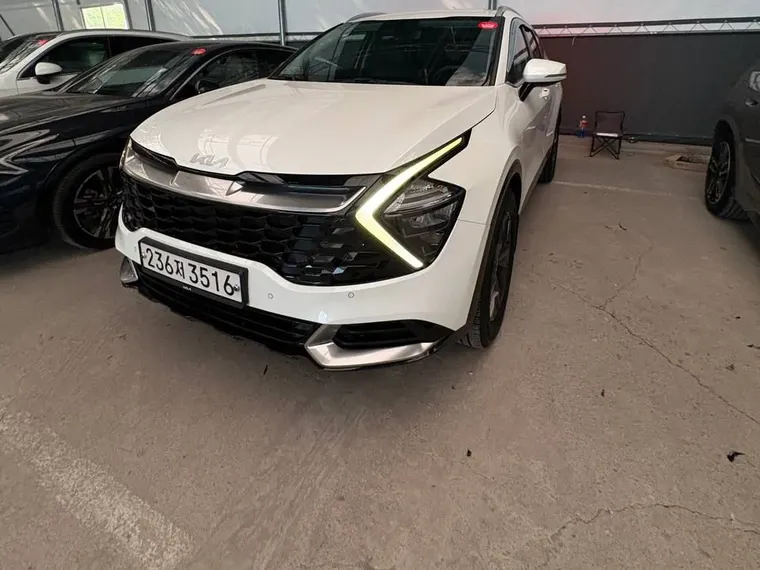
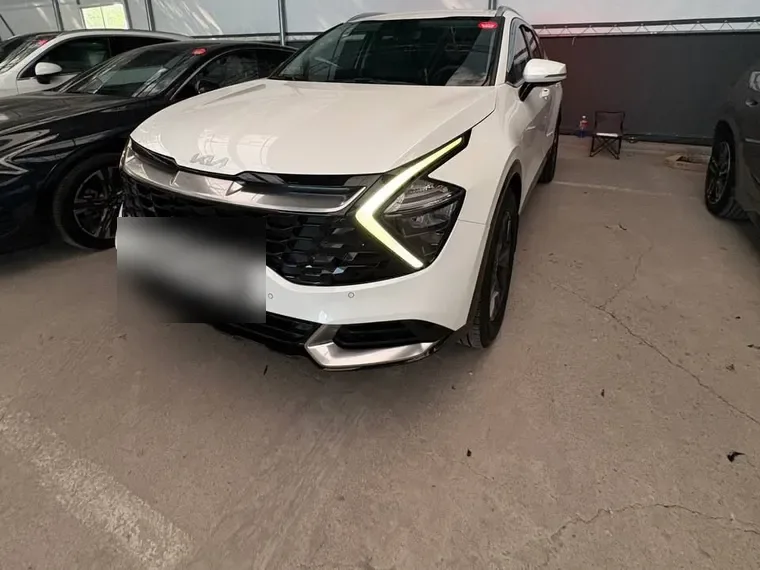
Trust and polish: honest placeholders for contacts and review captions, plates blurred, footer link fixed, owner statement, dialogs and mobile menu animate, hover only on mouse, stronger press

Changed region(s): [[0.1513, 0.3579, 0.3632, 0.5667]]

diff --git a/app/globals.css b/app/globals.css
@@ -253,7 +253,11 @@ html.lenis body {
     color 160ms var(--ease-out);
 }
 .btn:active {
-  transform: translateY(1px);
+  transform: translateY(1px) scale(0.98);
+}
+.pill:active,
+[role="radio"]:active {
+  transform: scale(0.97);
 }
 .btn-sm {
   height: 44px;
@@ -268,24 +272,30 @@ html.lenis body {
     inset 0 -2px 0 rgba(0, 0, 0, 0.22),
     0 12px 28px -14px color-mix(in srgb, var(--accent) 80%, transparent);
 }
-.btn-primary:hover {
-  background: color-mix(in srgb, var(--accent-fill) 86%, white);
+@media (hover: hover) and (pointer: fine) {
+  .btn-primary:hover {
+    background: color-mix(in srgb, var(--accent-fill) 86%, white);
+  }
 }
 .btn-ghost {
   background: transparent;
   color: var(--ink);
   border-color: var(--line-strong);
 }
-.btn-ghost:hover {
-  border-color: var(--ink);
-  background: var(--accent-soft);
+@media (hover: hover) and (pointer: fine) {
+  .btn-ghost:hover {
+    border-color: var(--ink);
+    background: var(--accent-soft);
+  }
 }
 .btn-paper {
   background: var(--paper);
   color: var(--paper-ink);
 }
-.btn-paper:hover {
-  background: color-mix(in srgb, var(--paper) 88%, white);
+@media (hover: hover) and (pointer: fine) {
+  .btn-paper:hover {
+    background: color-mix(in srgb, var(--paper) 88%, white);
+  }
 }
 
 /* ---------- Fields ---------- */
@@ -304,8 +314,10 @@ html.lenis body {
     box-shadow 200ms var(--ease-out),
     background-color 160ms var(--ease-out);
 }
-.field:hover {
-  border-color: var(--ink-3);
+@media (hover: hover) and (pointer: fine) {
+  .field:hover {
+    border-color: var(--ink-3);
+  }
 }
 .field:focus-within {
   border-color: var(--accent);
@@ -372,11 +384,14 @@ html.lenis body {
   transition:
     background-color 160ms var(--ease-out),
     color 160ms var(--ease-out),
-    border-color 160ms var(--ease-out);
+    border-color 160ms var(--ease-out),
+    transform 160ms var(--ease-out);
 }
-.pill:hover {
-  color: var(--ink);
-  border-color: var(--ink-3);
+@media (hover: hover) and (pointer: fine) {
+  .pill:hover {
+    color: var(--ink);
+    border-color: var(--ink-3);
+  }
 }
 .pill[aria-checked="true"],
 .pill[aria-pressed="true"] {
@@ -423,6 +438,41 @@ html.lenis body {
 .select-item[data-disabled] {
   opacity: 0.4;
   cursor: not-allowed;
+}
+/* Dialogs (car details, photo viewer): open in the site's rhythm, close quickly */
+.dlg-fade[data-state="open"] {
+  animation: dlg-fade-in 400ms var(--ease-expo) both;
+}
+.dlg-fade[data-state="closed"] {
+  animation: dlg-fade-out 200ms ease-out both;
+}
+.dlg-pop[data-state="open"] {
+  animation: dlg-pop-in 700ms var(--ease-expo) both;
+}
+.dlg-pop[data-state="closed"] {
+  animation: dlg-pop-out 200ms ease-out both;
+}
+@keyframes dlg-fade-in {
+  from {
+    opacity: 0;
+  }
+}
+@keyframes dlg-fade-out {
+  to {
+    opacity: 0;
+  }
+}
+@keyframes dlg-pop-in {
+  from {
+    opacity: 0;
+    scale: 0.96;
+  }
+}
+@keyframes dlg-pop-out {
+  to {
+    opacity: 0;
+    scale: 0.98;
+  }
 }
 @keyframes pop {
   from {
@@ -475,8 +525,10 @@ html.lenis body {
   z-index: 1;
   transition: transform 700ms var(--ease-out);
 }
-.card-hover:hover .stage img.car {
-  transform: translateX(-50%) scale(1.05);
+@media (hover: hover) and (pointer: fine) {
+  .card-hover:hover .stage img.car {
+    transform: translateX(-50%) scale(1.05);
+  }
 }
 
 }
@@ -857,8 +909,10 @@ html[data-intro="play"] :is(.header-in, .split-panel) {
   cursor: pointer;
   transition: background 0.2s;
 }
-.vp-btn:hover {
-  background: rgba(255, 255, 255, 0.18);
+@media (hover: hover) and (pointer: fine) {
+  .vp-btn:hover {
+    background: rgba(255, 255, 255, 0.18);
+  }
 }
 @keyframes eq {
   to {

diff --git a/components/Contact.tsx b/components/Contact.tsx
@@ -4,6 +4,7 @@ import { ArrowUpRight, CheckCircle2, Loader2, TriangleAlert } from "lucide-react
 import { AnimatePresence, motion, useReducedMotion, useScroll, useSpring, useTransform } from "motion/react";
 import { useEffect, useRef, useState } from "react";
 import { QUIZ } from "@/lib/data";
+import { DUR, EASE } from "@/lib/motion";
 import { channels, SITE } from "@/lib/site";
 import { NjIcon, type IconName } from "./NjIcon";
 import { Select } from "./Select";
@@ -173,8 +174,8 @@ ${text}` : text }));
                   <motion.div
                     key="ok"
                     initial={{ opacity: 0, y: 12 }}
-                    animate={{ opacity: 1, y: 0 }}
-                    exit={{ opacity: 0 }}
+                    animate={{ opacity: 1, y: 0, transition: { duration: DUR, ease: EASE } }}
+                    exit={{ opacity: 0, transition: { duration: 0.2 } }}
                     className="grid place-items-center py-14 text-center"
                     role="status"
                   >
@@ -195,7 +196,7 @@ ${text}` : text }));
                     </button>
                   </motion.div>
                 ) : (
-                  <motion.form key="form" onSubmit={submit} noValidate exit={{ opacity: 0 }} className="grid gap-5">
+                  <motion.form key="form" onSubmit={submit} noValidate initial={{ opacity: 0 }} animate={{ opacity: 1, transition: { duration: DUR, ease: EASE } }} exit={{ opacity: 0, transition: { duration: 0.2 } }} className="grid gap-5">
                     <div className="grid gap-5 sm:grid-cols-2">
                       <div>
                         <label htmlFor="f-name" className="label">
@@ -249,7 +250,7 @@ ${text}` : text }));
                               role="radio"
                               aria-checked={f[q.key] === o}
                               onClick={() => set(q.key, f[q.key] === o ? "" : o)}
-                              className="cursor-pointer rounded-full border border-line-strong px-3.5 py-1.5 text-[16px] font-bold text-ink-2 transition-colors hover:border-accent hover:text-ink aria-checked:border-accent aria-checked:bg-accent-soft aria-checked:text-ink"
+                              className="cursor-pointer rounded-full border border-line-strong px-3.5 py-1.5 text-[16px] font-bold text-ink-2 transition-[color,background-color,border-color,transform] duration-150 hover:border-accent hover:text-ink aria-checked:border-accent aria-checked:bg-accent-soft aria-checked:text-ink"
                             >
                               {o}
                             </button>

diff --git a/components/Header.tsx b/components/Header.tsx
@@ -1,7 +1,8 @@
 "use client";
 
 import { ArrowUpRight, Menu, X } from "lucide-react";
-import { motion, useScroll, useSpring } from "motion/react";
+import { AnimatePresence, motion, useScroll, useSpring } from "motion/react";
+import { DUR, EASE } from "@/lib/motion";
 import { useEffect, useState } from "react";
 import { ThemeToggle } from "./ThemeToggle";
 
@@ -29,7 +30,7 @@ function NavList({ items, prefix, active }: { items: typeof NAV; prefix: string;
               <motion.span
                 layoutId="nav-active"
                 className="absolute inset-x-3 -bottom-[1px] h-[2px] bg-accent xl:inset-x-4"
-                transition={{ type: "spring", stiffness: 420, damping: 36 }}
+                transition={{ duration: 0.45, ease: EASE }}
               />
             )}
           </a>
@@ -107,11 +108,17 @@ export function Header({ prefix = "" }: { prefix?: string }) {
         />
       </nav>
 
+      <AnimatePresence>
       {open && (
-        <div className="plate mx-3 mt-2 p-3 lg:hidden">
+        <motion.div
+          initial={{ opacity: 0, y: -10 }}
+          animate={{ opacity: 1, y: 0, transition: { duration: DUR, ease: EASE } }}
+          exit={{ opacity: 0, y: -6, transition: { duration: 0.2, ease: "easeOut" } }}
+          className="plate mx-3 mt-2 p-3 lg:hidden"
+        >
           <ul className="flex flex-col">
-            {NAV.map((n) => (
-              <li key={n.id}>
+            {NAV.map((n, i) => (
+              <motion.li key={n.id} initial={{ opacity: 0, y: 8 }} animate={{ opacity: 1, y: 0 }} transition={{ duration: DUR, ease: EASE, delay: 0.05 + i * 0.04 }}>
                 <a
                   href={`${prefix}#${n.id}`}
                   onClick={() => setOpen(false)}
@@ -120,7 +127,7 @@ export function Header({ prefix = "" }: { prefix?: string }) {
                   {n.label}
                   <ArrowUpRight className="size-4 text-ink-3" strokeWidth={1.75} />
                 </a>
-              </li>
+              </motion.li>
             ))}
           </ul>
           <div className="mt-2 flex items-center justify-end gap-3 p-3 pt-4">
@@ -128,8 +135,9 @@ export function Header({ prefix = "" }: { prefix?: string }) {
               Рассчитать
             </a>
           </div>
-        </div>
+        </motion.div>
       )}
+      </AnimatePresence>
     </header>
   );
 }

diff --git a/components/Reviews.tsx b/components/Reviews.tsx
@@ -9,9 +9,9 @@ import { Reveal, SectionHead } from "./ui";
 // Videos compressed from the owner's originals (public/reviews). The first one is Andrey himself, it opens the row.
 const ITEMS = [
   { id: "andrey", title: "Андрей, NJ Motors", sub: "Начинает Андрей", wide: false, dur: 98 },
-  { id: "review-1", title: "Отзыв клиента", sub: "Видео от клиента", wide: false, dur: 82 },
-  { id: "review-2", title: "Отзыв клиента", sub: "Видео от клиента", wide: false, dur: 102 },
-  { id: "review-3", title: "Отзыв клиента", sub: "Видео от клиента", wide: true, dur: 30 },
+  { id: "review-1", title: "Отзыв клиента", sub: "Имя, машина и город — после согласия клиента", wide: false, dur: 82 },
+  { id: "review-2", title: "Отзыв клиента", sub: "Имя, машина и город — после согласия клиента", wide: false, dur: 102 },
+  { id: "review-3", title: "Отзыв клиента", sub: "Имя, машина и город — после согласия клиента", wide: true, dur: 30 },
 ] as const;
 
 // Photos of cars sent by the owner (public/gallery): a cropped tile for the wall and the whole frame for the big view.
@@ -489,8 +489,8 @@ export function Reviews() {
 
       <Dialog.Root open={photo !== null} onOpenChange={(v) => !v && setPhoto(null)}>
         <Dialog.Portal>
-          <Dialog.Overlay className="fixed inset-0 z-[100] bg-[rgba(4,12,20,0.88)] backdrop-blur-sm" />
-          <Dialog.Content aria-describedby={undefined} className="fixed inset-0 z-[101] grid place-items-center p-3 outline-none sm:p-6" onClick={(e) => e.target === e.currentTarget && setPhoto(null)}>
+          <Dialog.Overlay className="dlg-fade fixed inset-0 z-[100] bg-[rgba(4,12,20,0.92)]" />
+          <Dialog.Content aria-describedby={undefined} className="dlg-pop fixed inset-0 z-[101] grid place-items-center p-3 outline-none sm:p-6" onClick={(e) => e.target === e.currentTarget && setPhoto(null)}>
             <Dialog.Title className="sr-only">{photo !== null ? PHOTOS[photo].title : ""}</Dialog.Title>
             {photo !== null && (
               <figure className="relative flex max-h-full max-w-full flex-col items-center gap-3">

diff --git a/components/Owner.tsx b/components/Owner.tsx
@@ -3,14 +3,7 @@ import { asset } from "@/lib/asset";
 import { SITE } from "@/lib/site";
 import { nb } from "@/lib/typo";
 import { PhoneMock } from "./PhoneMock";
-import { NjIcon, type IconName } from "./NjIcon";
 import { Reveal, SectionHead } from "./ui";
-
-const POINTS: [string, string, IconName][] = [
-  ["Один контакт на всю сделку", "От заявки до ключей вы общаетесь с одним человеком.", "person"],
-  ["Видите то же, что и мы", "Фото, видео и документы приходят до выкупа.", "camera"],
-  ["Условия в договоре", "Цена и этапы оплаты прописаны до первого платежа.", "contract"],
-];
 
 export function Owner() {
   const { owner, legal } = SITE;
@@ -49,17 +42,9 @@ export function Owner() {
             lead={`С ${SITE.brand.since} года. Вашу сделку ведёт один человек.`}
           />
 
-          <ul className="mt-10 grid gap-6 border-t border-line pt-8">
-            {POINTS.map(([t, d, icon]) => (
-              <li key={t} className="flex gap-4">
-                <NjIcon name={icon} className="size-9" />
-                <span>
-                  <span className="block text-[16px] font-bold text-ink">{t}</span>
-                  <span className="mt-1 block max-w-[52ch] text-[16px] leading-snug text-ink-2">{nb(d)}</span>
-                </span>
-              </li>
-            ))}
-          </ul>
+          <p className="mt-8 max-w-[44ch] text-[clamp(19px,1.7vw,23px)] leading-snug font-medium text-ink">
+            {nb("Фото, видео и документы приходят до выкупа, а цена и этапы оплаты записаны в договоре до первого платежа.")}
+          </p>
 
           {rows.length > 0 && (
             <dl className="mt-10 grid grid-cols-[auto_1fr] gap-x-8 gap-y-3 border-t border-line pt-6">

diff --git a/components/Faq.tsx b/components/Faq.tsx
@@ -18,12 +18,12 @@ export function Faq() {
                 <Accordion.Header>
                   <Accordion.Trigger className="group flex w-full items-center justify-between gap-6 py-5 text-left text-[17px] font-bold text-ink transition-colors hover:text-accent-ink">
                     {nb(f.q)}
-                    <span className="grid size-11 shrink-0 place-items-center rounded-full border-2 border-accent/40 transition-transform duration-300 group-data-[state=open]:rotate-45 group-data-[state=open]:border-accent group-data-[state=open]:text-accent-ink">
+                    <span className="grid size-11 shrink-0 place-items-center rounded-full border-2 border-accent/40 transition-[rotate,transform,border-color] duration-[400ms] ease-[cubic-bezier(0.16,1,0.3,1)] group-data-[state=open]:rotate-45 group-data-[state=open]:border-accent group-data-[state=open]:text-accent-ink">
                       <Plus className="size-6 text-accent" strokeWidth={3.2} strokeLinecap="round" />
                     </span>
                   </Accordion.Trigger>
                 </Accordion.Header>
-                <Accordion.Content className="overflow-hidden data-[state=closed]:animate-[acc-up_260ms_ease-out] data-[state=open]:animate-[acc-down_320ms_cubic-bezier(.2,0,0,1)]">
+                <Accordion.Content className="overflow-hidden data-[state=closed]:animate-[acc-up_300ms_ease-out] data-[state=open]:animate-[acc-down_700ms_cubic-bezier(0.16,1,0.3,1)]">
                   <p className="max-w-[62ch] pb-7 text-[16px] leading-relaxed text-ink-2">{nb(f.a)}</p>
                 </Accordion.Content>
               </Accordion.Item>

diff --git a/components/Footer.tsx b/components/Footer.tsx
@@ -7,7 +7,7 @@ const NAV = [
   ["catalog", "Автомобили"],
   ["calc", "Расчёт"],
   ["process", "Как мы работаем"],
-  ["deal", "Договор и оплата"],
+  ["reviews", "Отзывы"],
   ["faq", "Вопросы"],
   ["contact", "Контакты"],
 ];
@@ -64,9 +64,18 @@ export function Footer({ prefix = "" }: { prefix?: string }) {
                 ))}
               </ul>
             ) : (
-              <p className="mt-4 max-w-[30ch] text-[16px] leading-snug text-ink-2">
-                Оставьте заявку в форме выше: менеджер свяжется с вами сам.
-              </p>
+              <>
+                {/* макет: контакты ещё не подтверждены владельцем, места под них показаны честно */}
+                <ul className="mt-4 grid gap-4 text-[16px]">
+                  {["Телефон", "Эл. почта"].map((k) => (
+                    <li key={k}>
+                      <span className="block text-ink-3">{k}</span>
+                      <span className="font-semibold text-ink-2">Появится после подтверждения</span>
+                    </li>
+                  ))}
+                </ul>
+                <p className="mt-4 max-w-[30ch] text-[16px] leading-snug text-ink-2">Пока можно оставить заявку в форме выше: Андрей свяжется сам.</p>
+              </>
             )}
           </div>
         </div>

diff --git a/components/Catalog.tsx b/components/Catalog.tsx
@@ -84,10 +84,10 @@ export function Catalog() {
 
       <Dialog.Root open={open !== null} onOpenChange={(v) => !v && setOpen(null)}>
         <Dialog.Portal>
-          <Dialog.Overlay className="fixed inset-0 z-[60] bg-black/70 backdrop-blur-sm" />
+          <Dialog.Overlay className="dlg-fade fixed inset-0 z-[60] bg-[rgba(4,12,20,0.82)]" />
           <Dialog.Content
             data-lenis-prevent
-            className="plate fixed top-1/2 left-1/2 z-[70] max-h-[92svh] w-[min(94vw,880px)] -translate-x-1/2 -translate-y-1/2 overflow-y-auto"
+            className="plate dlg-pop fixed top-1/2 left-1/2 z-[70] max-h-[92svh] w-[min(94vw,880px)] -translate-x-1/2 -translate-y-1/2 overflow-y-auto"
           >
             {open && <CarDetails car={open} onDone={() => setOpen(null)} />}
           </Dialog.Content>
